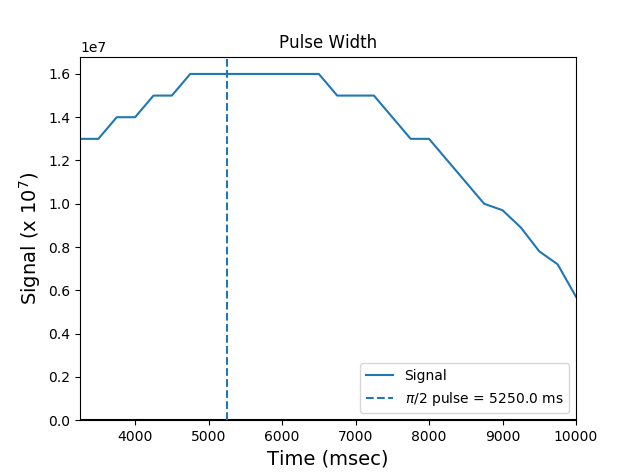
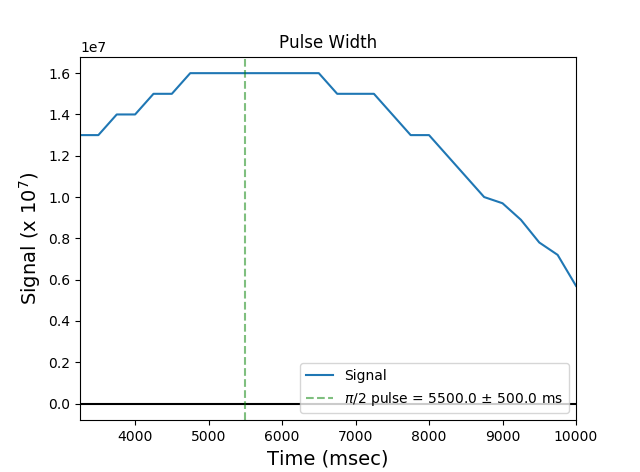
some minor changes

diff --git a/nmr/plot_ispin_nmr_data_spinEcho.py b/nmr/plot_ispin_nmr_data_spinEcho.py
@@ -99,7 +99,7 @@ tauTime = tscale*tau#t[A.argmax()]
 
 # plot the points
 ax1.plot(t*tscale,A,label='Signal')
-ax1.axvline(tauTime, ls='--',color='g',alpha=.5,label='$\\tau$ = {} ms'.format(tauTime))
+ax1.axvline(tauTime, ls='--',color='g',alpha=.5,label='$\\tau$ = {:.3e} ms'.format(tauTime))
 
 # label the axes and display legend
 ax1.set_xlabel('Time ('+np.str(tunits)+')',fontsize=14)

diff --git a/nmr/plot_ispin_nmr_data_pulsewidth.py b/nmr/plot_ispin_nmr_data_pulsewidth.py
@@ -59,7 +59,7 @@ Begin Execution Here
 
 # The following is the filename containing the data
 directory = "data/pulseWidth/"
-filename = "pulsewidthfind.csv"
+filename = "pulsewidthfind2.csv"
 fname = directory+filename
 print "filename = ",fname
 plot_title='Pulse Width'
